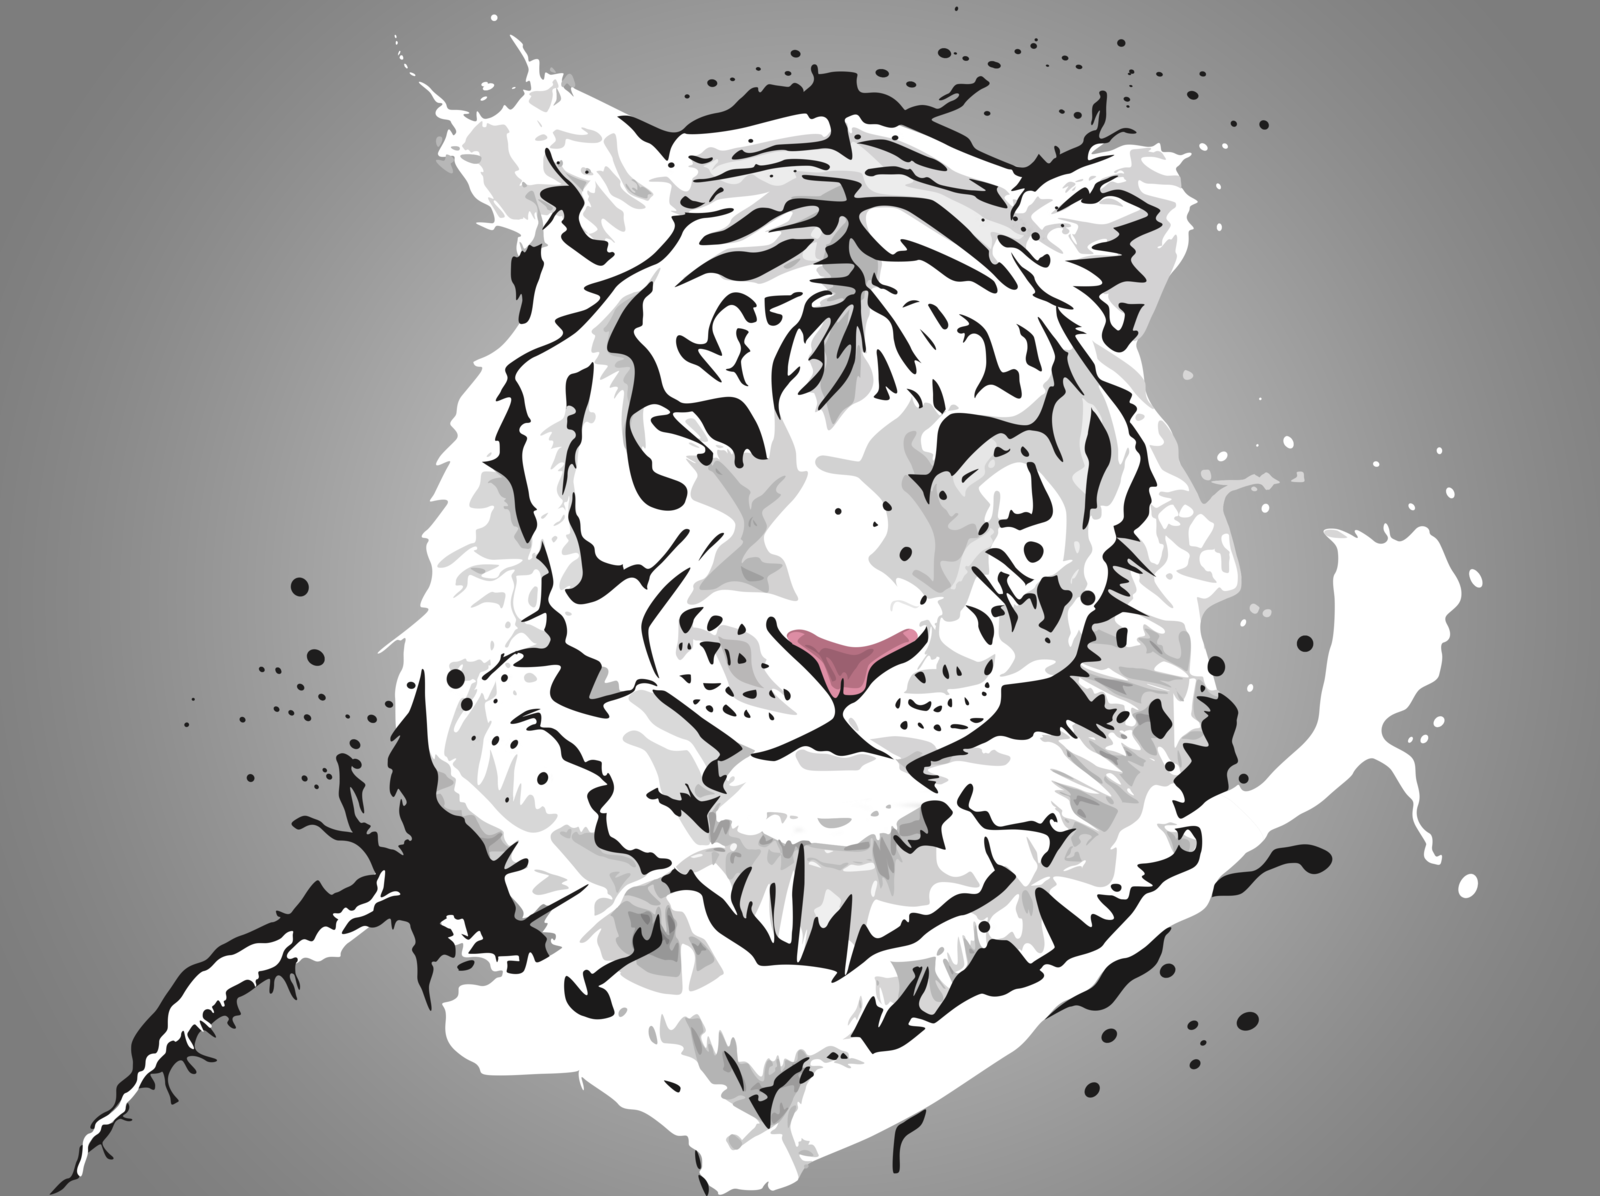
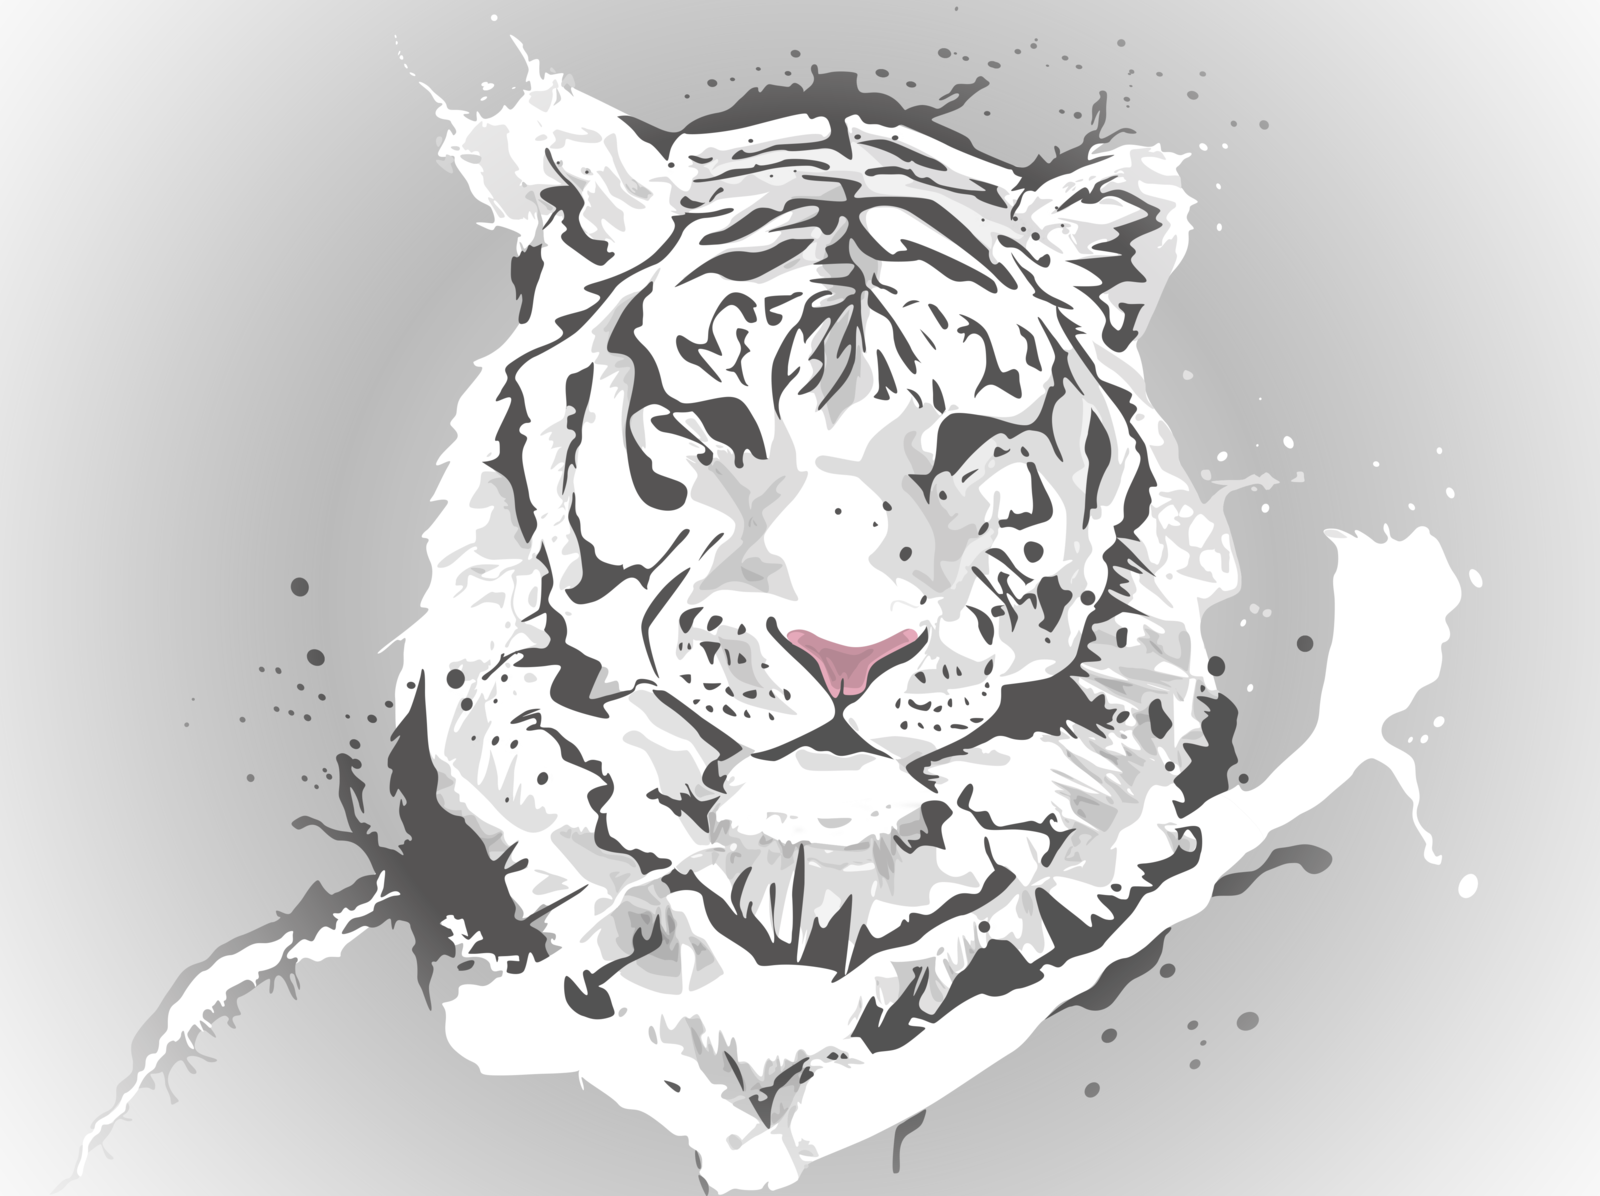
Added background to app

diff --git a/src/NeuralFlowPane.cpp b/src/NeuralFlowPane.cpp
@@ -94,12 +94,35 @@ namespace aly{
 		nvgLineTo(nvg, pos.x-dims.x*0.5f, pos.y);
 		nvgLineTo(nvg, pos.x + dims.x*0.5f, pos.y);
 		nvgClosePath(nvg);
+		
 		nvgFill(nvg);
 	}
 
 	NeuralFlowPane::NeuralFlowPane(const std::string& name, const AUnit2D& pos, const AUnit2D& dims) :
 		Composite(name, pos, dims),dragEnabled(false) {
 		router.setBorderSpacing(30.0f);
+		ImageRGBA img;
+		ReadImageFromFile(AlloyApplicationContext()->getFullPath("images/tiger.png"), img);
+		/*
+		float2 center(0.5f*img.width, 0.5f*img.height);
+		float t = 0.4f;
+		for (int j = 0; j < img.height; j++) {
+			for (int i = 0; i < img.width; i++) {
+				RGBA& c = img(i, j);
+				float r = distance(float2(i, j), center);
+
+				if (r < t*img.height) {
+					c.w = 192;
+				}
+				else {
+					float s=1.0f-(r - t*img.height)/((1.0f-t)*img.height);
+					c.w =  uint8_t(std::floor(192 *s*s));
+				}
+			}
+		}
+		WriteImageToFile(GetDesktopDirectory()+ALY_PATH_SEPARATOR+"tiger.png",img);
+		*/
+		backgroundImage = ImageGlyphPtr(new ImageGlyph(img,AlloyApplicationContext().get(),false));
 		Application::addListener(this);
 	}
 	void NeuralFlowPane::pack(const pixel2& pos, const pixel2& dims, const double2& dpmm, double pixelRatio, bool clamp) {
@@ -168,6 +191,19 @@ namespace aly{
 			nvgFill(nvg);
 		}
 		pushScissor(nvg, getCursorBounds());
+
+		box2px imgb = bounds;
+		float imga=backgroundImage->width / (float)backgroundImage->height;
+		float ba = imgb.dimensions.x / imgb.dimensions.y;
+		if (imga < ba) {
+			imgb.dimensions = pixel2(imgb.dimensions.x, imgb.dimensions.x / imga);
+		}
+		else {
+			imgb.dimensions = pixel2(imgb.dimensions.y*imga, imgb.dimensions.y);
+		}
+		imgb.position = bounds.center() -0.5f*imgb.dimensions;
+		backgroundImage->draw(imgb, context->theme.DARK.toSemiTransparent(0.5f), COLOR_NONE, context);
+		
 		for (NeuralConnectionPtr con : connections) {
 			if (con->source->isVisible() && con->destination->isVisible()) {
 				con->draw(context, this);
@@ -198,6 +234,7 @@ namespace aly{
 				}
 			}
 		}
+
 		if (isScrollEnabled()) {
 			popScissor(nvg);
 		}

diff --git a/include/NeuralFlowPane.h b/include/NeuralFlowPane.h
@@ -62,7 +62,7 @@ namespace aly {
 	protected:
 		aly::dataflow::AvoidanceRouting router;
 		std::vector<NeuralLayerRegionPtr> layerRegions;
-
+		ImageGlyphPtr backgroundImage;
 		bool dragEnabled;
 	public:
 		std::set<NeuralConnectionPtr> connections;
